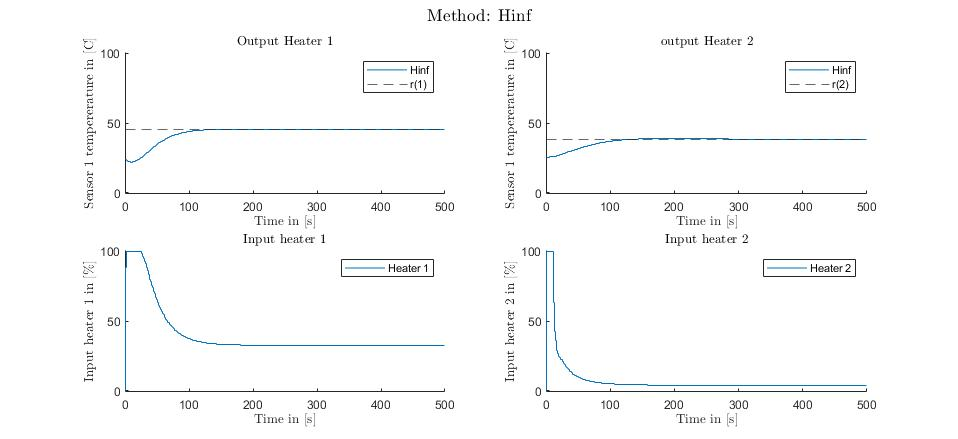
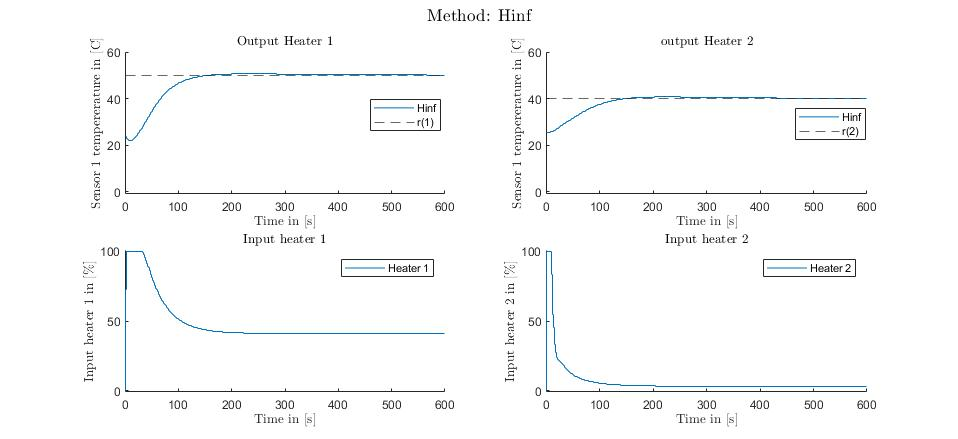
New tuning

diff --git a/Code/Control.m b/Code/Control.m
@@ -42,8 +42,8 @@ G = n4sid;
 %G = fdsid;
 
 % ---- Choose controller: ----
-controller_hinf = 0;
-controller_lqr = 1;
+controller_hinf = 1;
+controller_lqr = 0;
 
 %% ==== CHECK PLANT PROPERTIES: ====
 
@@ -57,7 +57,7 @@ disp(string(Nr_unobservable_states) + ' unobservable states.');
 
 
 %% ==== SETTINGS: ==== 
-    rs = [45;38];
+    rs = [50;40];
 
 %% ==== LQR: ====
 if controller_lqr
@@ -74,7 +74,7 @@ if controller_hinf
     [K_Hinf, K_Musyn] = Hinf(G);
     
         % ---- Simulate system: ----
-    T = 500;  % s
+    T = 600;  % s
     Gd = c2d(G,1,'zoh');
     
     T0 = G.UserData;
@@ -104,14 +104,14 @@ if controller_hinf
     title(ax11,'Output Heater 1')
     stairs(ax11,tdata,y(:,1), 'DisplayName', 'Hinf')
     yline(ax11,rs(1),'--','DisplayName','r(1)')
-    ylim(ax11,[-1 101])
+    ylim(ax11,[-1 60])
     xlabel(ax11,"Time in [s]")
     ylabel(ax11,"Sensor 1 tempererature in [C]")
     legend(ax11, 'Location', 'northeast')
 
     title(ax12,'output Heater 2')
     stairs(ax12,tdata,y(:,2), 'DisplayName', 'Hinf')
-    ylim(ax12,[-1 101])
+    ylim(ax12,[-1 60])
     yline(ax12,rs(2),'--','DisplayName','r(2)')
     xlabel(ax12,"Time in [s]")
     ylabel(ax12,"Sensor 1 tempererature in [C]")

diff --git a/Code/Controller_Design/Hinf.m b/Code/Controller_Design/Hinf.m
@@ -5,7 +5,7 @@ function [K_Hinf, K_Musyn] = Hinf(G)
 % ---- Set up generalised plant: ----
     
     % Wp
-    W_p = makeweight(1e5, [5e-3*(2*pi) db2mag(3)], 1); % Design it upside down!
+    W_p = makeweight(1e5, [35e-4*(2*pi) db2mag(3)], 1); % Design it upside down!
     Wp = [W_p 0; 0 W_p];            % ideal sensitivity function S   
     
     % Wt
